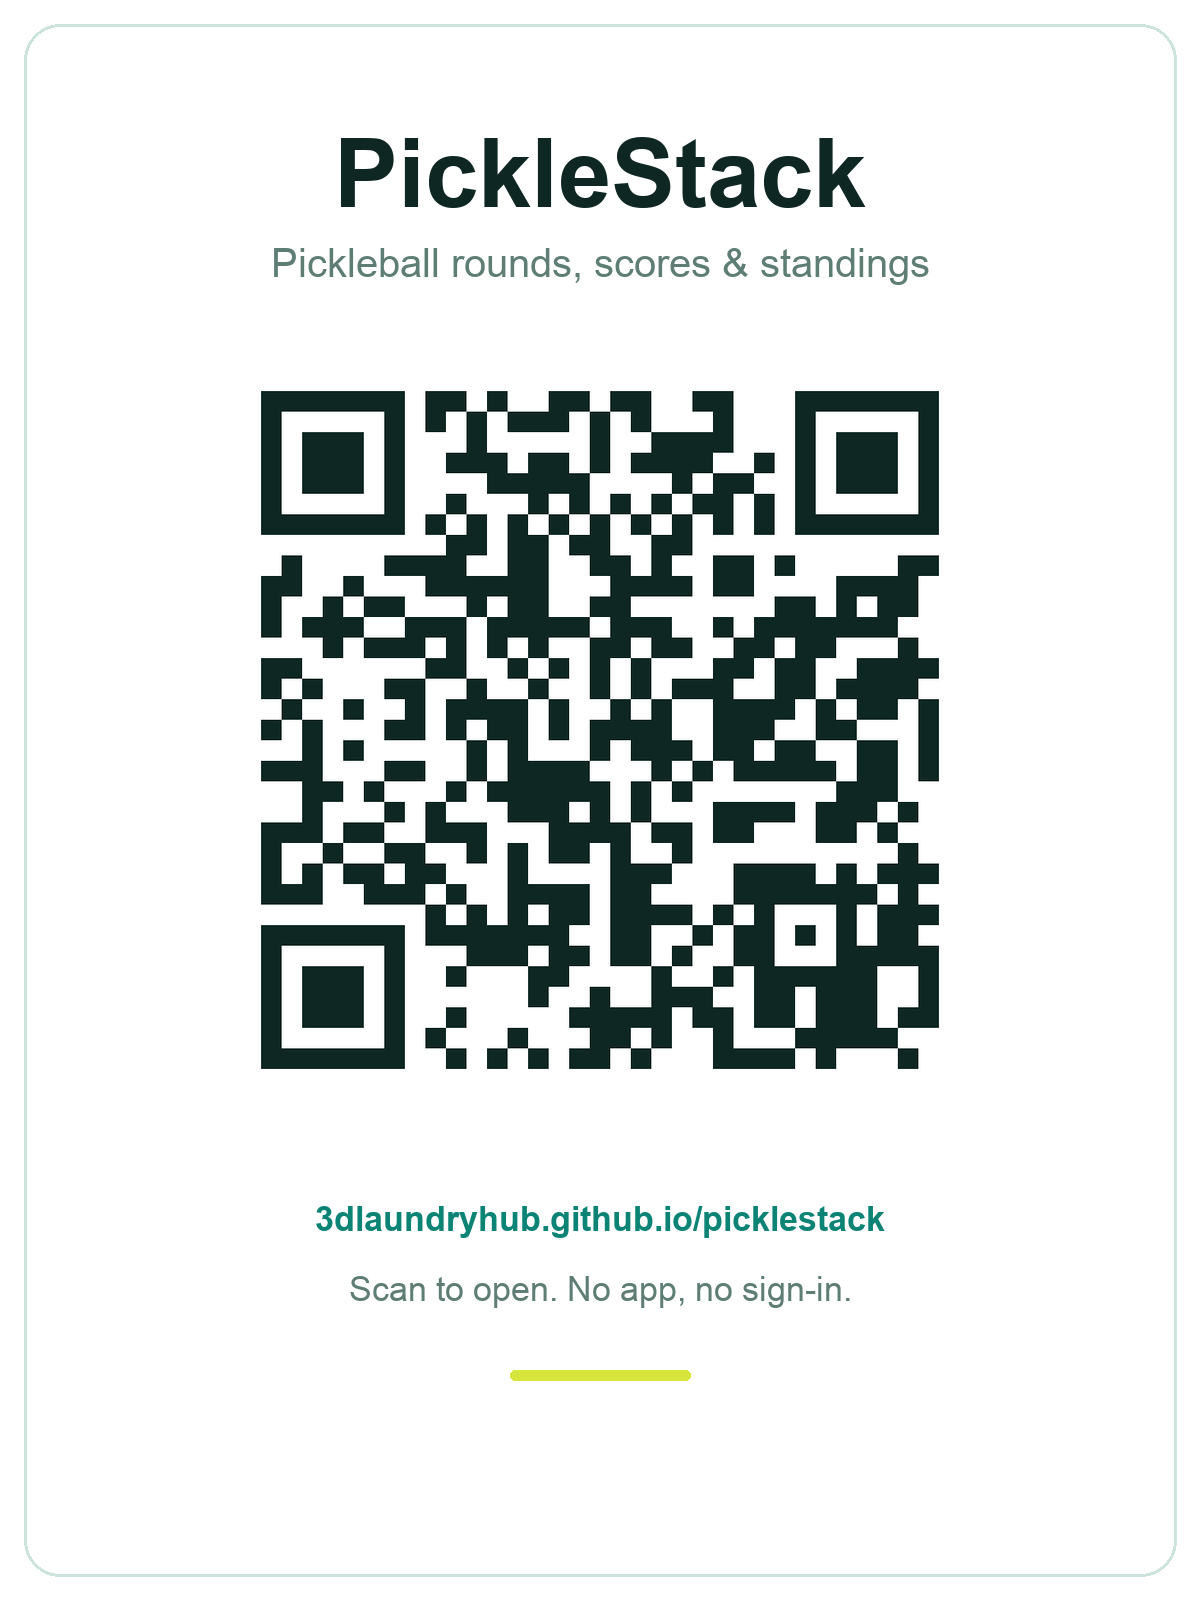
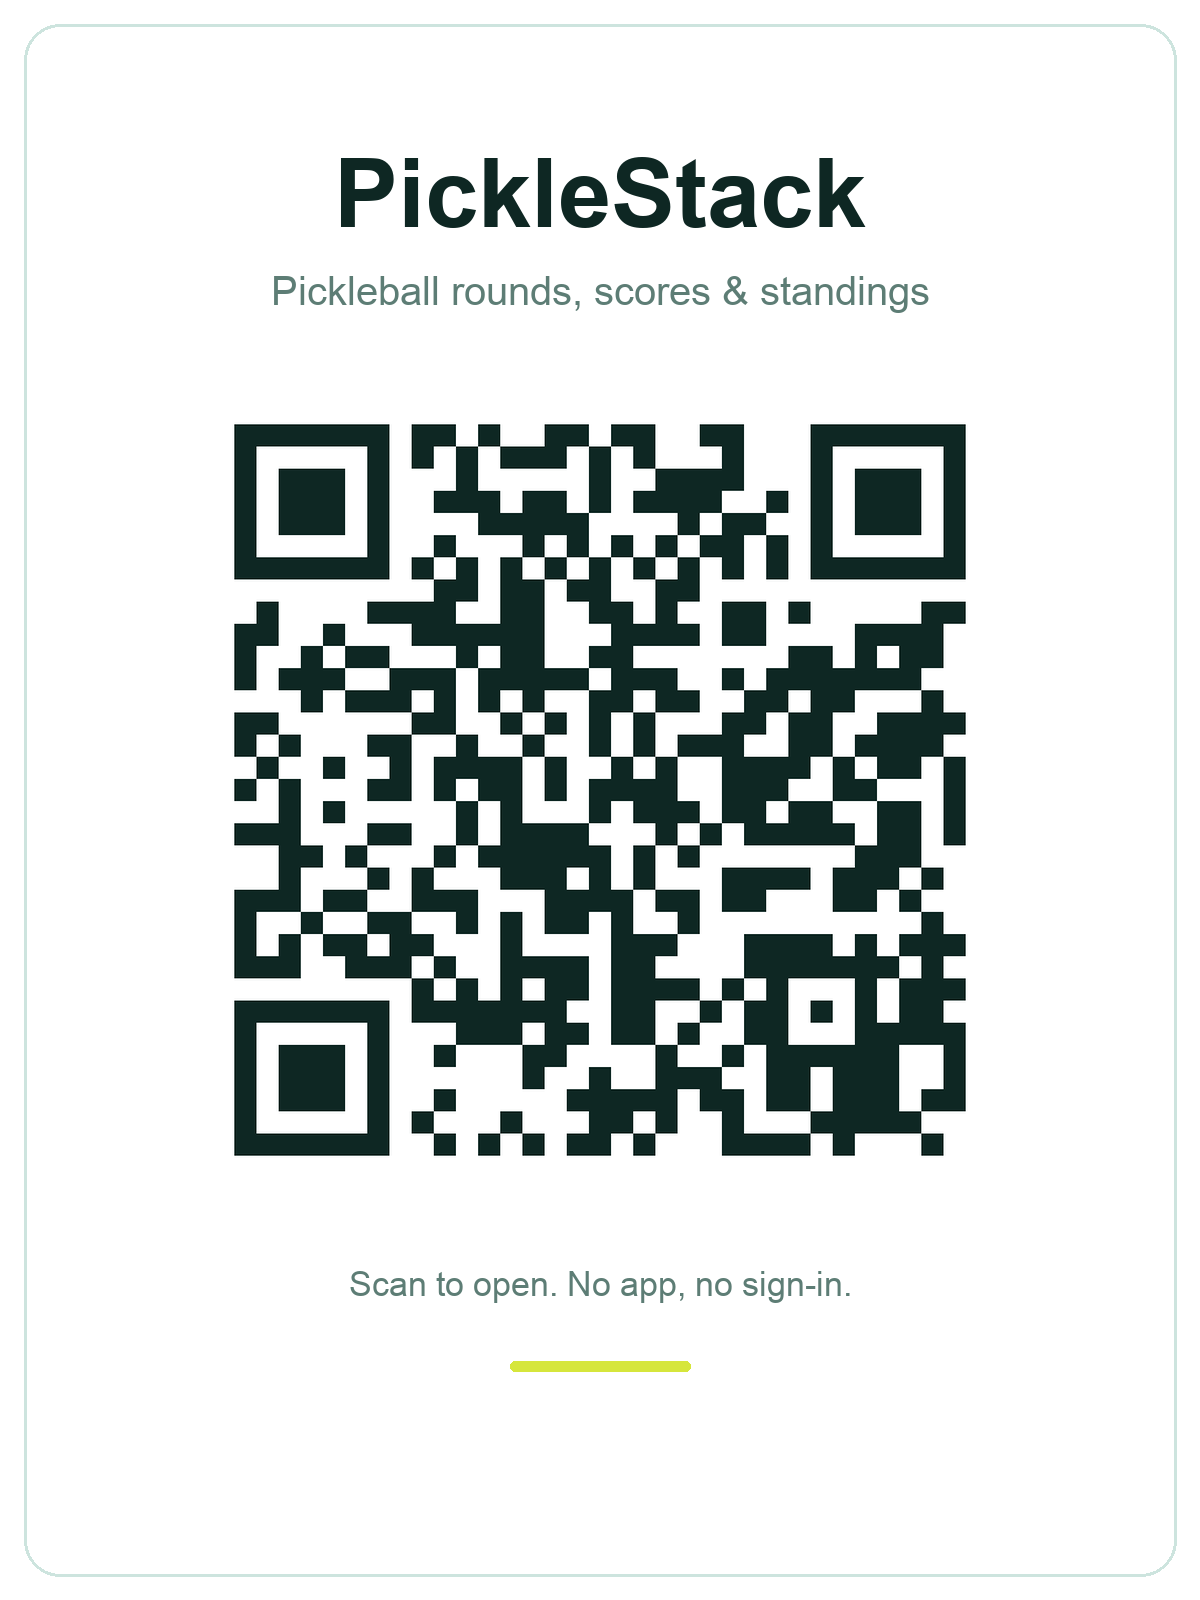
Card shows the name, not the host address
The GitHub account name is unrelated to pickleball and read oddly on a
printed card. Larger QR fills the reclaimed space; SHOW_URL brings the
address back if it is ever wanted.

Changed region(s): [[0.185, 0.0625, 0.8325, 0.8125], [0.4317, 0.8438, 0.5858, 0.875]]

diff --git a/qr/make_qr.py b/qr/make_qr.py
@@ -13,6 +13,10 @@ from qrcode.constants import ERROR_CORRECT_Q
 from PIL import Image, ImageDraw, ImageFont
 
 URL = "https://3dlaundryhub.github.io/picklestack/"
+
+# The card carries the name, not the address: the host account is unrelated to
+# pickleball and reads oddly on a noticeboard. Set True to print it anyway.
+SHOW_URL = False
 HERE = pathlib.Path(__file__).parent
 
 INK = (14, 39, 35)        # app --ink, near-black with a green cast
@@ -56,18 +60,21 @@ def centre(text, f, y, fill):
     w = d.textbbox((0, 0), text, font=f)[2]
     d.text(((W - w) / 2, y), text, font=f, fill=fill)
 
-centre("PickleStack", title, 120, INK)
-centre("Pickleball rounds, scores & standings", sub, 240, MUTED)
+centre("PickleStack", title, 140, INK)
+centre("Pickleball rounds, scores & standings", sub, 268, MUTED)
 
-size = 760
+size = 820
 code_img = code.resize((size, size), Image.LANCZOS)
-card.paste(code_img, ((W - size) // 2, 350))
+card.paste(code_img, ((W - size) // 2, 380))
 
-centre("3dlaundryhub.github.io/picklestack", addr, 1200, TEAL)
-centre("Scan to open. No app, no sign-in.", foot, 1270, MUTED)
+y = 1265
+if SHOW_URL:
+    centre(URL.replace("https://", "").rstrip("/"), addr, y, TEAL)
+    y += 68
+centre("Scan to open. No app, no sign-in.", foot, y, MUTED)
 
 # an optic-yellow rule, the one flash of colour the app uses for a live court
-d.rounded_rectangle([(W - 180) / 2, 1370, (W + 180) / 2, 1380], radius=5, fill=(214, 230, 60))
+d.rounded_rectangle([(W - 180) / 2, y + 96, (W + 180) / 2, y + 106], radius=5, fill=(214, 230, 60))
 
 card.save(HERE / "picklestack-card.png")
 
